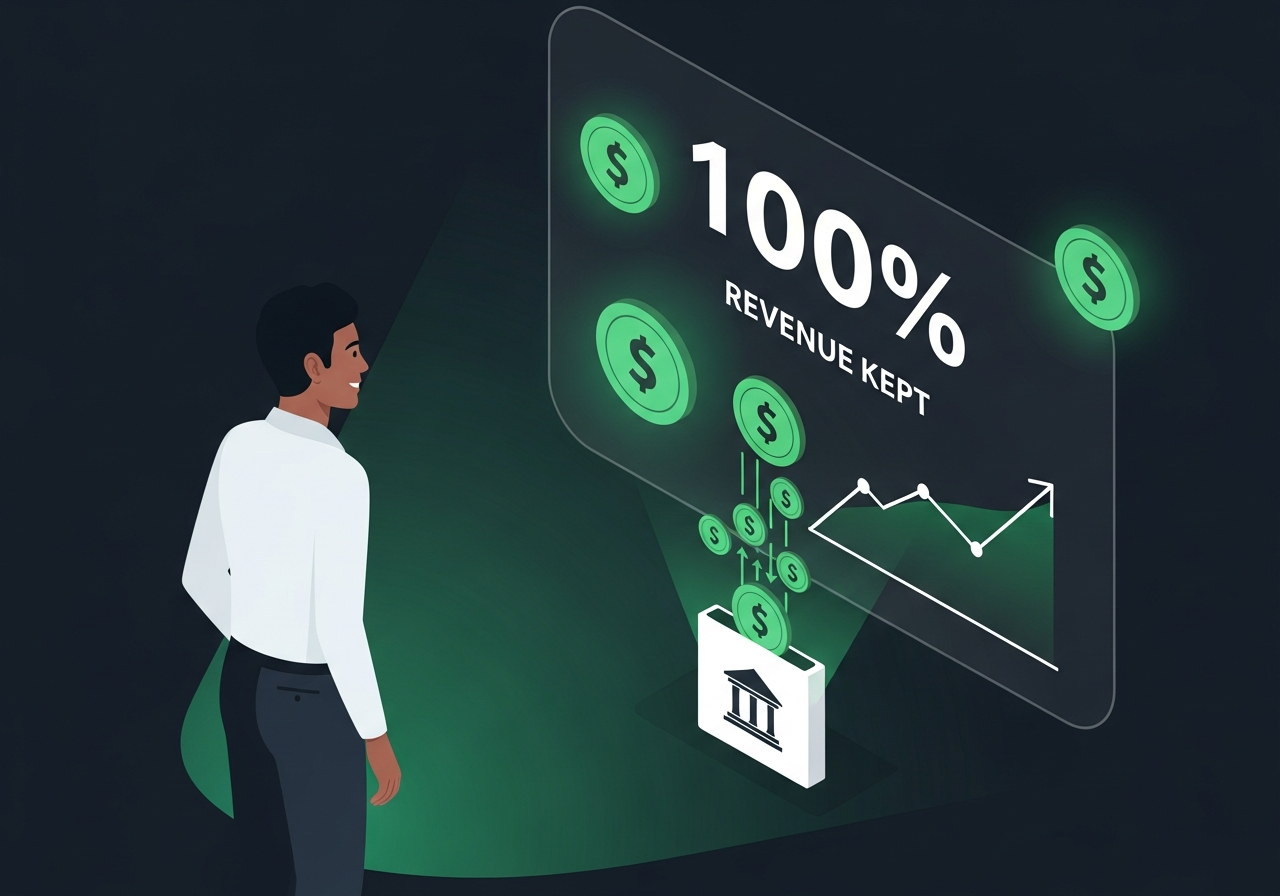
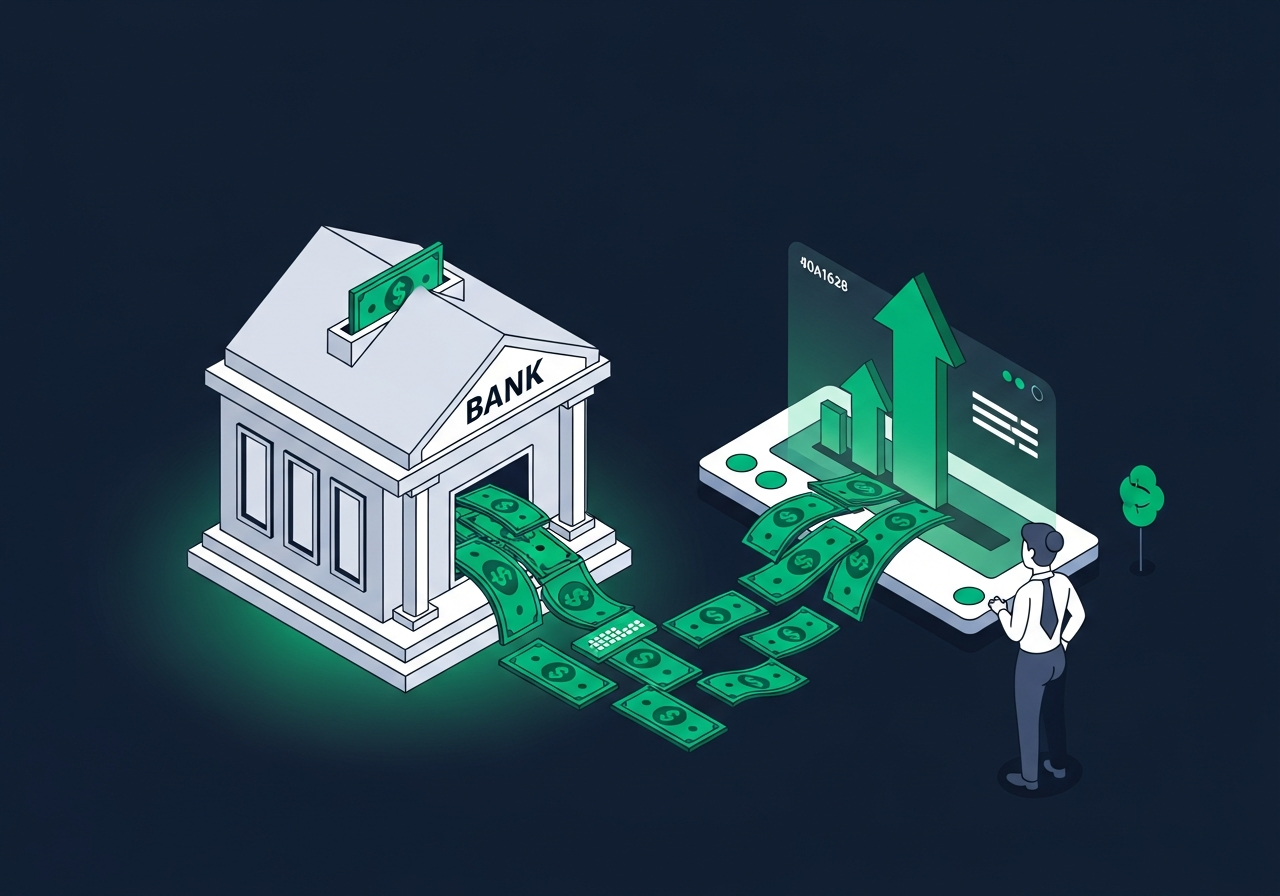
Update how payments are processed and deposited for users
Update the "How It Works" section with new content, images, and details for each step of the payment processing flow.

Replit-Commit-Author: Agent
Replit-Commit-Session-Id: 012cdd95-5af6-41b0-a57b-6f77f1e94daa
Replit-Commit-Checkpoint-Type: full_checkpoint
Replit-Commit-Event-Id: 0b523feb-a5f5-4dbe-b4f5-d80f3edb373c
Replit-Commit-Screenshot-Url: https://storage.googleapis.com/screenshot-production-us-central1/c0f00f7a-2ef4-4f87-89f1-f9c655a5eb95/012cdd95-5af6-41b0-a57b-6f77f1e94daa/04jd1HS
Replit-Helium-Checkpoint-Created: true

diff --git a/client/src/pages/home.tsx b/client/src/pages/home.tsx
@@ -216,12 +216,12 @@ function HowItWorksSection() {
   const steps = [
     {
       step: "01",
-      title: "Choose Your Plan",
-      description: "Pick in-store terminal for face-to-face payments, or go online-only with a free website. Zero processing fees either way.",
+      title: "Customer Pays With Card",
+      description: "Your customer swipes, taps, or inserts their card at checkout — just like any normal transaction.",
       details: [
-        "In-Store Terminal — $399 one-time",
-        "30-Day Free Trial available",
-        "OR Online-Only — FREE website + gateway",
+        "Accept all major credit & debit cards",
+        "Tap, swipe, or chip — all supported",
+        "Fast, seamless checkout experience",
       ],
       image: "/images/step-choose-plan.png",
       icon: CreditCard,
@@ -232,12 +232,12 @@ function HowItWorksSection() {
     },
     {
       step: "02",
-      title: "We Set Everything Up",
-      description: "Same-day setup. We configure your terminal, connect it to your bank, train you, and provide compliance signage.",
+      title: "3-4% Fee Added to Total",
+      description: "A small processing fee of 3-4% is automatically added to the customer's total — not taken from your sale.",
       details: [
-        "Terminal programming & configuration",
-        "Bank account connection",
-        "Hands-on training & compliance signage",
+        "Fee is added to customer's total at checkout",
+        "Fully transparent — shown on receipt",
+        "100% legal & PCI compliant",
       ],
       image: "/images/step-setup.png",
       icon: Zap,
@@ -248,12 +248,12 @@ function HowItWorksSection() {
     },
     {
       step: "03",
-      title: "Keep 100% of Every Sale",
-      description: "A small surcharge is passed to card-paying customers at checkout. You keep 100% of the listed price, deposited by next business day.",
+      title: "You Get 100% Deposited",
+      description: "You keep every dollar of your sale. The full amount is deposited directly into your bank account in 1-2 business days.",
       details: [
-        "Customer pays small card surcharge",
-        "You keep 100% of the listed price",
-        "Next-day deposits & real-time dashboard",
+        "100% of your sale goes to you",
+        "Deposited in 1-2 business days",
+        "Track everything on your dashboard",
       ],
       image: "/images/step-keep-revenue.png",
       icon: DollarSign,
